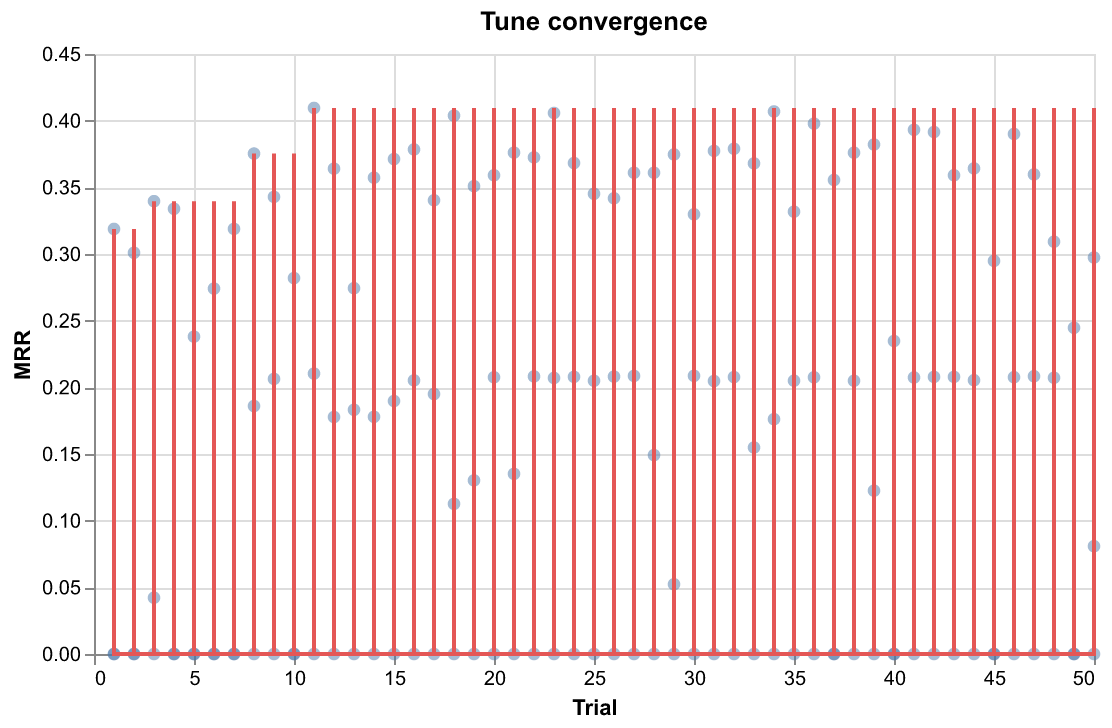
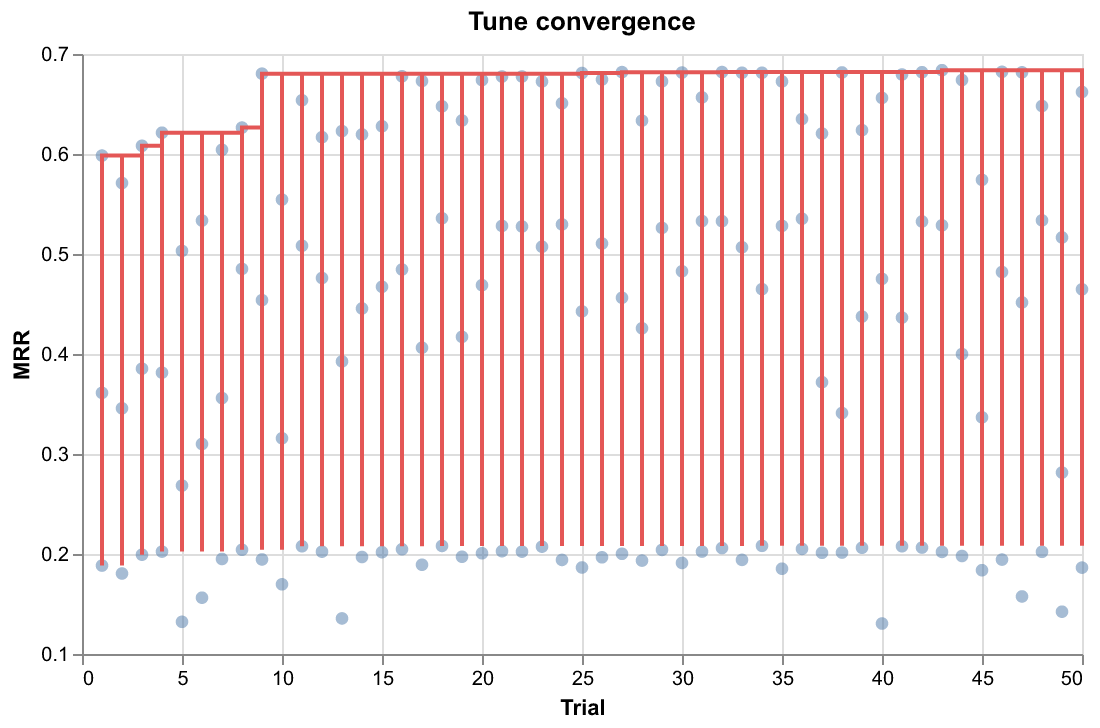
Refresh tuning results

Changed region(s): [[0.0, 0.0604, 0.9891, 0.9973], [0.4327, 0.0, 0.6491, 0.0604]]

diff --git a/packages/rbtr-eval/data/RERANKER_TUNING.md b/packages/rbtr-eval/data/RERANKER_TUNING.md
@@ -15,21 +15,21 @@
 
 | pool | blend | n_queries | MRR    | NDCG@10 | hit@1 % | hit@3 % | hit@10 % | miss % | p50 ms | p95 ms |
 | ---- | ----- | --------- | ------ | ------- | ------- | ------- | -------- | ------ | ------ | ------ |
-| 80   | 0.25  | 661       | 0.6022 | 0.6475  | 50.7    | 67.2    | 79.0     | 21.0   | 7206   | 11965  |
-| 50   | 0.25  | 661       | 0.6007 | 0.6453  | 50.7    | 66.7    | 78.5     | 21.5   | 4813   | 8154   |
-| 80   | 0.5   | 661       | 0.5982 | 0.6445  | 50.2    | 66.9    | 79.0     | 21.0   | 7206   | 11965  |
-| 50   | 0.5   | 661       | 0.5943 | 0.6403  | 50.1    | 66.1    | 78.5     | 21.5   | 4813   | 8154   |
-| 80   | 0.75  | 661       | 0.5879 | 0.6365  | 49.0    | 66.4    | 79.0     | 21.0   | 7206   | 11965  |
-| 50   | 0.75  | 661       | 0.5796 | 0.6291  | 48.1    | 65.1    | 78.5     | 21.5   | 4813   | 8154   |
-| 80   | 0.0   | 661       | 0.5748 | 0.6265  | 46.9    | 66.0    | 79.0     | 21.0   | 7206   | 11965  |
-| 20   | 0.25  | 661       | 0.5741 | 0.6132  | 49.0    | 63.2    | 73.5     | 26.5   | 2135   | 3860   |
-| 50   | 0.0   | 661       | 0.5734 | 0.6244  | 47.0    | 65.5    | 78.5     | 21.5   | 4813   | 8154   |
-| 20   | 0.5   | 661       | 0.5733 | 0.6128  | 48.9    | 63.4    | 73.5     | 26.5   | 2135   | 3860   |
-| 20   | 0.75  | 661       | 0.5683 | 0.609   | 48.1    | 63.4    | 73.5     | 26.5   | 2135   | 3860   |
-| 20   | 0.0   | 661       | 0.5491 | 0.5939  | 45.7    | 62.8    | 73.5     | 26.5   | 2135   | 3860   |
-| 80   | 1.0   | 661       | 0.5471 | 0.6047  | 44.3    | 61.3    | 79.0     | 21.0   | 7206   | 11965  |
-| 50   | 1.0   | 661       | 0.539  | 0.5971  | 43.9    | 59.3    | 78.5     | 21.5   | 4813   | 8154   |
-| 20   | 1.0   | 661       | 0.5234 | 0.5733  | 43.7    | 57.2    | 73.5     | 26.5   | 2135   | 3860   |
+| 80   | 0.25  | 661       | 0.6022 | 0.6475  | 50.7    | 67.2    | 79.0     | 21.0   | 7098   | 11848  |
+| 50   | 0.25  | 661       | 0.6007 | 0.6453  | 50.7    | 66.7    | 78.5     | 21.5   | 4812   | 8156   |
+| 80   | 0.5   | 661       | 0.5982 | 0.6445  | 50.2    | 66.9    | 79.0     | 21.0   | 7098   | 11848  |
+| 50   | 0.5   | 661       | 0.5943 | 0.6403  | 50.1    | 66.1    | 78.5     | 21.5   | 4812   | 8156   |
+| 80   | 0.75  | 661       | 0.5879 | 0.6365  | 49.0    | 66.4    | 79.0     | 21.0   | 7098   | 11848  |
+| 50   | 0.75  | 661       | 0.5796 | 0.6291  | 48.1    | 65.1    | 78.5     | 21.5   | 4812   | 8156   |
+| 80   | 0.0   | 661       | 0.5748 | 0.6265  | 46.9    | 66.0    | 79.0     | 21.0   | 7098   | 11848  |
+| 20   | 0.25  | 661       | 0.5741 | 0.6132  | 49.0    | 63.2    | 73.5     | 26.5   | 2132   | 3886   |
+| 50   | 0.0   | 661       | 0.5734 | 0.6244  | 47.0    | 65.5    | 78.5     | 21.5   | 4812   | 8156   |
+| 20   | 0.5   | 661       | 0.5733 | 0.6128  | 48.9    | 63.4    | 73.5     | 26.5   | 2132   | 3886   |
+| 20   | 0.75  | 661       | 0.5683 | 0.609   | 48.1    | 63.4    | 73.5     | 26.5   | 2132   | 3886   |
+| 20   | 0.0   | 661       | 0.5491 | 0.5939  | 45.7    | 62.8    | 73.5     | 26.5   | 2132   | 3886   |
+| 80   | 1.0   | 661       | 0.5471 | 0.6047  | 44.3    | 61.3    | 79.0     | 21.0   | 7098   | 11848  |
+| 50   | 1.0   | 661       | 0.539  | 0.5971  | 43.9    | 59.3    | 78.5     | 21.5   | 4812   | 8156   |
+| 20   | 1.0   | 661       | 0.5234 | 0.5733  | 43.7    | 57.2    | 73.5     | 26.5   | 2132   | 3886   |
 
 ## Per-provenance breakdown
 
@@ -98,77 +98,86 @@
 
 ## Per-kind breakdown
 
-| kind       | pool | blend | n_queries | MRR    | NDCG@10 | hit@1 % | hit@3 % |
-| ---------- | ---- | ----- | --------- | ------ | ------- | ------- | ------- |
-| code       | 80   | 0.5   | 103       | 0.866  | 0.8854  | 80.6    | 93.2    |
-| code       | 50   | 0.5   | 103       | 0.8612 | 0.8793  | 80.6    | 92.2    |
-| code       | 80   | 0.25  | 103       | 0.8579 | 0.8795  | 78.6    | 93.2    |
-| code       | 80   | 0.75  | 103       | 0.8547 | 0.877   | 78.6    | 93.2    |
-| code       | 50   | 0.25  | 103       | 0.8531 | 0.8734  | 78.6    | 92.2    |
-| code       | 20   | 0.5   | 103       | 0.8523 | 0.8702  | 79.6    | 90.3    |
-| code       | 50   | 0.75  | 103       | 0.8515 | 0.8721  | 78.6    | 92.2    |
-| code       | 20   | 0.25  | 103       | 0.8498 | 0.8685  | 78.6    | 91.3    |
-| code       | 20   | 0.75  | 103       | 0.8466 | 0.8659  | 78.6    | 90.3    |
-| code       | 80   | 1.0   | 103       | 0.8337 | 0.8609  | 75.7    | 91.3    |
-| code       | 50   | 1.0   | 103       | 0.8163 | 0.8452  | 73.8    | 89.3    |
-| code       | 20   | 1.0   | 103       | 0.7917 | 0.8235  | 71.8    | 84.5    |
-| code       | 20   | 0.0   | 103       | 0.7265 | 0.7757  | 59.2    | 87.4    |
-| code       | 80   | 0.0   | 103       | 0.7056 | 0.7644  | 55.3    | 86.4    |
-| code       | 50   | 0.0   | 103       | 0.7008 | 0.7582  | 55.3    | 85.4    |
-| concept    | 80   | 0.0   | 202       | 0.5366 | 0.5781  | 44.6    | 60.9    |
-| concept    | 50   | 0.0   | 202       | 0.5253 | 0.5636  | 44.1    | 59.4    |
-| concept    | 80   | 0.25  | 202       | 0.4676 | 0.5254  | 35.1    | 55.4    |
-| concept    | 50   | 0.25  | 202       | 0.4575 | 0.5121  | 34.7    | 54.0    |
-| concept    | 20   | 0.0   | 202       | 0.442  | 0.4674  | 38.1    | 50.5    |
-| concept    | 80   | 0.5   | 202       | 0.4363 | 0.501   | 31.7    | 50.5    |
-| concept    | 50   | 0.5   | 202       | 0.4254 | 0.487   | 31.2    | 49.0    |
-| concept    | 20   | 0.25  | 202       | 0.3979 | 0.4342  | 31.2    | 46.5    |
-| concept    | 80   | 0.75  | 202       | 0.3854 | 0.4617  | 25.2    | 47.5    |
-| concept    | 20   | 0.5   | 202       | 0.373  | 0.415   | 28.2    | 43.6    |
-| concept    | 50   | 0.75  | 202       | 0.3656 | 0.4407  | 23.8    | 43.6    |
-| concept    | 20   | 0.75  | 202       | 0.3285 | 0.3806  | 22.8    | 39.1    |
-| concept    | 80   | 1.0   | 202       | 0.3189 | 0.4092  | 18.8    | 38.1    |
-| concept    | 50   | 1.0   | 202       | 0.2972 | 0.3864  | 17.3    | 33.7    |
-| concept    | 20   | 1.0   | 202       | 0.2641 | 0.3289  | 17.3    | 29.2    |
-| identifier | 80   | 0.75  | 356       | 0.6257 | 0.6661  | 53.9    | 69.4    |
-| identifier | 20   | 0.75  | 356       | 0.6239 | 0.6643  | 53.7    | 69.4    |
-| identifier | 50   | 0.75  | 356       | 0.6224 | 0.6656  | 53.1    | 69.4    |
-| identifier | 50   | 0.5   | 356       | 0.6129 | 0.6582  | 52.0    | 68.3    |
-| identifier | 80   | 0.5   | 356       | 0.6126 | 0.6562  | 52.0    | 68.5    |
-| identifier | 50   | 0.25  | 356       | 0.6089 | 0.655   | 51.7    | 66.6    |
-| identifier | 20   | 0.5   | 356       | 0.6063 | 0.6505  | 51.7    | 66.9    |
-| identifier | 80   | 0.25  | 356       | 0.6047 | 0.6497  | 51.4    | 66.3    |
-| identifier | 50   | 1.0   | 356       | 0.596  | 0.6449  | 50.3    | 65.2    |
-| identifier | 20   | 0.25  | 356       | 0.5942 | 0.6408  | 50.6    | 64.6    |
-| identifier | 80   | 1.0   | 356       | 0.5936 | 0.6415  | 49.7    | 65.7    |
-| identifier | 20   | 1.0   | 356       | 0.593  | 0.6397  | 50.6    | 65.2    |
-| identifier | 50   | 0.0   | 356       | 0.5639 | 0.6201  | 46.3    | 63.2    |
-| identifier | 80   | 0.0   | 356       | 0.5585 | 0.614   | 45.8    | 62.9    |
-| identifier | 20   | 0.0   | 356       | 0.5585 | 0.613   | 46.1    | 62.6    |
+| kind       | pool | blend | n_queries | MRR    | NDCG@10 | hit@1 % | hit@3 % | p50 ms |
+| ---------- | ---- | ----- | --------- | ------ | ------- | ------- | ------- | ------ |
+| code       | 80   | 0.5   | 103       | 0.866  | 0.8854  | 80.6    | 93.2    | 7964   |
+| code       | 50   | 0.5   | 103       | 0.8612 | 0.8793  | 80.6    | 92.2    | 5328   |
+| code       | 80   | 0.25  | 103       | 0.8579 | 0.8795  | 78.6    | 93.2    | 7964   |
+| code       | 80   | 0.75  | 103       | 0.8547 | 0.877   | 78.6    | 93.2    | 7964   |
+| code       | 50   | 0.25  | 103       | 0.8531 | 0.8734  | 78.6    | 92.2    | 5328   |
+| code       | 20   | 0.5   | 103       | 0.8523 | 0.8702  | 79.6    | 90.3    | 2349   |
+| code       | 50   | 0.75  | 103       | 0.8515 | 0.8721  | 78.6    | 92.2    | 5328   |
+| code       | 20   | 0.25  | 103       | 0.8498 | 0.8685  | 78.6    | 91.3    | 2349   |
+| code       | 20   | 0.75  | 103       | 0.8466 | 0.8659  | 78.6    | 90.3    | 2349   |
+| code       | 80   | 1.0   | 103       | 0.8337 | 0.8609  | 75.7    | 91.3    | 7964   |
+| code       | 50   | 1.0   | 103       | 0.8163 | 0.8452  | 73.8    | 89.3    | 5328   |
+| code       | 20   | 1.0   | 103       | 0.7917 | 0.8235  | 71.8    | 84.5    | 2349   |
+| code       | 20   | 0.0   | 103       | 0.7265 | 0.7757  | 59.2    | 87.4    | 2349   |
+| code       | 80   | 0.0   | 103       | 0.7056 | 0.7644  | 55.3    | 86.4    | 7964   |
+| code       | 50   | 0.0   | 103       | 0.7008 | 0.7582  | 55.3    | 85.4    | 5328   |
+| concept    | 80   | 0.0   | 202       | 0.5366 | 0.5781  | 44.6    | 60.9    | 7309   |
+| concept    | 50   | 0.0   | 202       | 0.5253 | 0.5636  | 44.1    | 59.4    | 4945   |
+| concept    | 80   | 0.25  | 202       | 0.4676 | 0.5254  | 35.1    | 55.4    | 7309   |
+| concept    | 50   | 0.25  | 202       | 0.4575 | 0.5121  | 34.7    | 54.0    | 4945   |
+| concept    | 20   | 0.0   | 202       | 0.442  | 0.4674  | 38.1    | 50.5    | 2312   |
+| concept    | 80   | 0.5   | 202       | 0.4363 | 0.501   | 31.7    | 50.5    | 7309   |
+| concept    | 50   | 0.5   | 202       | 0.4254 | 0.487   | 31.2    | 49.0    | 4945   |
+| concept    | 20   | 0.25  | 202       | 0.3979 | 0.4342  | 31.2    | 46.5    | 2312   |
+| concept    | 80   | 0.75  | 202       | 0.3854 | 0.4617  | 25.2    | 47.5    | 7309   |
+| concept    | 20   | 0.5   | 202       | 0.373  | 0.415   | 28.2    | 43.6    | 2312   |
+| concept    | 50   | 0.75  | 202       | 0.3656 | 0.4407  | 23.8    | 43.6    | 4945   |
+| concept    | 20   | 0.75  | 202       | 0.3285 | 0.3806  | 22.8    | 39.1    | 2312   |
+| concept    | 80   | 1.0   | 202       | 0.3189 | 0.4092  | 18.8    | 38.1    | 7309   |
+| concept    | 50   | 1.0   | 202       | 0.2972 | 0.3864  | 17.3    | 33.7    | 4945   |
+| concept    | 20   | 1.0   | 202       | 0.2641 | 0.3289  | 17.3    | 29.2    | 2312   |
+| identifier | 80   | 0.75  | 356       | 0.6257 | 0.6661  | 53.9    | 69.4    | 6790   |
+| identifier | 20   | 0.75  | 356       | 0.6239 | 0.6643  | 53.7    | 69.4    | 2035   |
+| identifier | 50   | 0.75  | 356       | 0.6224 | 0.6656  | 53.1    | 69.4    | 4569   |
+| identifier | 50   | 0.5   | 356       | 0.6129 | 0.6582  | 52.0    | 68.3    | 4569   |
+| identifier | 80   | 0.5   | 356       | 0.6126 | 0.6562  | 52.0    | 68.5    | 6790   |
+| identifier | 50   | 0.25  | 356       | 0.6089 | 0.655   | 51.7    | 66.6    | 4569   |
+| identifier | 20   | 0.5   | 356       | 0.6063 | 0.6505  | 51.7    | 66.9    | 2035   |
+| identifier | 80   | 0.25  | 356       | 0.6047 | 0.6497  | 51.4    | 66.3    | 6790   |
+| identifier | 50   | 1.0   | 356       | 0.596  | 0.6449  | 50.3    | 65.2    | 4569   |
+| identifier | 20   | 0.25  | 356       | 0.5942 | 0.6408  | 50.6    | 64.6    | 2035   |
+| identifier | 80   | 1.0   | 356       | 0.5936 | 0.6415  | 49.7    | 65.7    | 6790   |
+| identifier | 20   | 1.0   | 356       | 0.593  | 0.6397  | 50.6    | 65.2    | 2035   |
+| identifier | 50   | 0.0   | 356       | 0.5639 | 0.6201  | 46.3    | 63.2    | 4569   |
+| identifier | 80   | 0.0   | 356       | 0.5585 | 0.614   | 45.8    | 62.9    | 6790   |
+| identifier | 20   | 0.0   | 356       | 0.5585 | 0.613   | 46.1    | 62.6    | 2035   |
 
-## Per-kind recommendation
+## Latency-aware selection
 
-| kind       | pool | blend | n_queries | MRR    | NDCG@10 |
-| ---------- | ---- | ----- | --------- | ------ | ------- |
-| code       | 80   | 0.5   | 103       | 0.866  | 0.8854  |
-| concept    | 80   | 0.0   | 202       | 0.5366 | 0.5781  |
-| identifier | 80   | 0.75  | 356       | 0.6257 | 0.6661  |
+MRR rises with pool size, but so does latency (p50 is a function of
+pool only). For each kind and overall, the cheapest (smallest-pool)
+config whose MRR is within a tolerance of that scope's best, and the
+MRR given up for it. Choose a pool per your latency budget; the config
+is applied manually.
 
-```toml
-[reranker_settings.code]
-pool = 80
-blend_weight = 0.5
+| kind       | tol % | pool | blend | MRR    | p50 ms | MRR vs best |
+| ---------- | ----- | ---- | ----- | ------ | ------ | ----------- |
+| code       | 0.5   | 80   | 0.5   | 0.866  | 7964   | 0.0         |
+| code       | 1.0   | 50   | 0.5   | 0.8612 | 5328   | 0.0049      |
+| code       | 2.0   | 20   | 0.5   | 0.8523 | 2349   | 0.0138      |
+| code       | 3.0   | 20   | 0.5   | 0.8523 | 2349   | 0.0138      |
+| code       | 5.0   | 20   | 0.5   | 0.8523 | 2349   | 0.0138      |
+| concept    | 0.5   | 80   | 0.0   | 0.5366 | 7309   | 0.0         |
+| concept    | 1.0   | 80   | 0.0   | 0.5366 | 7309   | 0.0         |
+| concept    | 2.0   | 80   | 0.0   | 0.5366 | 7309   | 0.0         |
+| concept    | 3.0   | 50   | 0.0   | 0.5253 | 4945   | 0.0113      |
+| concept    | 5.0   | 50   | 0.0   | 0.5253 | 4945   | 0.0113      |
+| identifier | 0.5   | 20   | 0.75  | 0.6239 | 2035   | 0.0018      |
+| identifier | 1.0   | 20   | 0.75  | 0.6239 | 2035   | 0.0018      |
+| identifier | 2.0   | 20   | 0.75  | 0.6239 | 2035   | 0.0018      |
+| identifier | 3.0   | 20   | 0.75  | 0.6239 | 2035   | 0.0018      |
+| identifier | 5.0   | 20   | 0.75  | 0.6239 | 2035   | 0.0018      |
+| all        | 0.5   | 50   | 0.25  | 0.6007 | 4812   | 0.0015      |
+| all        | 1.0   | 50   | 0.25  | 0.6007 | 4812   | 0.0015      |
+| all        | 2.0   | 50   | 0.25  | 0.6007 | 4812   | 0.0015      |
+| all        | 3.0   | 50   | 0.25  | 0.6007 | 4812   | 0.0015      |
+| all        | 5.0   | 20   | 0.25  | 0.5741 | 2132   | 0.0282      |
 
-[reranker_settings.concept]
-pool = 80
-blend_weight = 0.0
-
-[reranker_settings.identifier]
-pool = 80
-blend_weight = 0.75
-```
-
-## Per-slug breakdown (best config)
+## Per-slug breakdown (highest-MRR config: pool 80, blend 0.25)
 
 | slug               | n_queries | MRR    | NDCG@10 | hit@1 % | hit@3 % |
 | ------------------ | --------- | ------ | ------- | ------- | ------- |
@@ -178,7 +187,7 @@ blend_weight = 0.75
 | django__django     | 151       | 0.4849 | 0.5154  | 41.7    | 54.3    |
 | rbtr__rbtr         | 90        | 0.6322 | 0.6795  | 51.1    | 73.3    |
 
-## Per-language breakdown (best config)
+## Per-language breakdown (highest-MRR config: pool 80, blend 0.25)
 
 | language   | n_queries | MRR    | NDCG@10 | hit@1 % | hit@3 % |
 | ---------- | --------- | ------ | ------- | ------- | ------- |
@@ -197,21 +206,13 @@ blend_weight = 0.75
 | typescript | 60        | 0.7639 | 0.8017  | 66.7    | 83.3    |
 | yaml       | 36        | 0.4716 | 0.5253  | 36.1    | 52.8    |
 
-## Recommended config (flat)
-
-```toml
-[reranker]
-pool = 80
-blend_weight = 0.25
-```
-
 ## Run metadata
 
 | field             | value   |
 | ----------------- | ------- |
 | queries evaluated | 661     |
 | configs evaluated | 15      |
-| elapsed           | 10100 s |
+| elapsed           | 10033 s |
 
 ## Sample distribution
 

diff --git a/packages/rbtr-eval/data/TUNING.md b/packages/rbtr-eval/data/TUNING.md
@@ -12,15 +12,15 @@ The search score fuses three channels:
 
 | kind       | alpha    | beta     | gamma    |
 | ---------- | -------- | -------- | -------- |
-| concept    | 0.020334 | 0.053841 | 0.925825 |
-| identifier | 0.020334 | 0.033426 | 0.946239 |
-| code       | 0.208055 | 0.742272 | 0.049673 |
+| concept    | 0.137519 | 0.27806  | 0.584421 |
+| identifier | 0.007601 | 0.092751 | 0.899648 |
+| code       | 0.059404 | 0.846227 | 0.09437  |
 
 ## Result
 
-| metric | current              | recommended         | delta                                |
-| ------ | -------------------- | ------------------- | ------------------------------------ |
-| MRR    | 3.999999938267203e-9 | 0.21031567797214318 | 0.21031567397214324 ([phone redacted].4%) |
+| metric | current             | recommended         | delta                        |
+| ------ | ------------------- | ------------------- | ---------------------------- |
+| MRR    | 0.19610506250229112 | 0.20816103962755234 | 0.012055977125261214 (+6.1%) |
 
 ## Impact by dimension
 
@@ -30,30 +30,30 @@ kind.
 
 | slug               | language   | provenance | baseline_mrr | best_mrr | delta   | baseline_ndcg_at_10 | best_ndcg_at_10 | delta_ndcg_at_10 |
 | ------------------ | ---------- | ---------- | ------------ | -------- | ------- | ------------------- | --------------- | ---------------- |
-| __all__            |            | __all__    | 0.443817     | 0.427624 | -0.0162 | 0.471481            | 0.453808        | -0.0177          |
-| __all__            | __all__    | __all__    | 0.463313     | 0.450549 | -0.0128 | 0.499615            | 0.490144        | -0.0095          |
-| __all__            | __all__    | body       | 0.496739     | 0.470997 | -0.0257 | 0.541199            | 0.521351        | -0.0198          |
-| __all__            | __all__    | concept    | 0.177647     | 0.171985 | -0.0057 | 0.210482            | 0.203077        | -0.0074          |
-| __all__            | __all__    | docstring  | 0.695852     | 0.6804   | -0.0155 | 0.727141            | 0.719518        | -0.0076          |
-| __all__            | __all__    | name       | 0.569728     | 0.570133 | 0.0004  | 0.600786            | 0.603167        | 0.0024           |
-| __all__            | bash       | __all__    | 0.615487     | 0.629143 | 0.0137  | 0.668275            | 0.688075        | 0.0198           |
-| __all__            | css        | __all__    | 0.697159     | 0.666717 | -0.0304 | 0.730645            | 0.710267        | -0.0204          |
-| __all__            | html       | __all__    | 0.3234375    | 0.262326 | -0.0611 | 0.343175            | 0.29723         | -0.0459          |
-| __all__            | javascript | __all__    | 0.570713     | 0.544099 | -0.0266 | 0.606333            | 0.579399        | -0.0269          |
-| __all__            | json       | __all__    | 0.180471     | 0.164526 | -0.0159 | 0.210442            | 0.193627        | -0.0168          |
-| __all__            | markdown   | __all__    | 0.205274     | 0.176338 | -0.0289 | 0.225527            | 0.201417        | -0.0241          |
-| __all__            | python     | __all__    | 0.598675     | 0.606921 | 0.0082  | 0.642819            | 0.648053        | 0.0052           |
-| __all__            | rst        | __all__    | 0.004608     | 0.004608 | 0.0     | 0.010753            | 0.010753        | 0.0              |
-| __all__            | rust       | __all__    | 0.581184     | 0.574102 | -0.0071 | 0.640342            | 0.635493        | -0.0048          |
-| __all__            | sql        | __all__    | 0.62284      | 0.625926 | 0.0031  | 0.68853             | 0.695887        | 0.0074           |
-| __all__            | toml       | __all__    | 0.167907     | 0.104621 | -0.0633 | 0.191943            | 0.157037        | -0.0349          |
-| __all__            | typescript | __all__    | 0.582346     | 0.58305  | 0.0007  | 0.625416            | 0.622674        | -0.0027          |
-| __all__            | yaml       | __all__    | 0.14569      | 0.143166 | -0.0025 | 0.173153            | 0.183485        | 0.0103           |
-| anthropics__skills | __all__    | __all__    | 0.579295     | 0.547484 | -0.0318 | 0.629008            | 0.598532        | -0.0305          |
-| astral-sh__uv      | __all__    | __all__    | 0.453504     | 0.447944 | -0.0056 | 0.484416            | 0.486699        | 0.0023           |
-| badlogic__pi-mono  | __all__    | __all__    | 0.484073     | 0.478738 | -0.0053 | 0.521001            | 0.5178          | -0.0032          |
-| django__django     | __all__    | __all__    | 0.347153     | 0.334263 | -0.0129 | 0.36912             | 0.36045         | -0.0087          |
-| rbtr__rbtr         | __all__    | __all__    | 0.47081      | 0.464956 | -0.0059 | 0.519481            | 0.511588        | -0.0079          |
+| __all__            |            | __all__    | 0.443817     | 0.421326 | -0.0225 | 0.471481            | 0.448494        | -0.023           |
+| __all__            | __all__    | __all__    | 0.463241     | 0.469329 | 0.0061  | 0.499421            | 0.504203        | 0.0048           |
+| __all__            | __all__    | body       | 0.496538     | 0.511273 | 0.0147  | 0.540654            | 0.553461        | 0.0128           |
+| __all__            | __all__    | concept    | 0.177647     | 0.172075 | -0.0056 | 0.210482            | 0.203629        | -0.0069          |
+| __all__            | __all__    | docstring  | 0.695852     | 0.692136 | -0.0037 | 0.727141            | 0.722689        | -0.0045          |
+| __all__            | __all__    | name       | 0.569728     | 0.581262 | 0.0115  | 0.600786            | 0.611546        | 0.0108           |
+| __all__            | bash       | __all__    | 0.615487     | 0.646278 | 0.0308  | 0.668275            | 0.697151        | 0.0289           |
+| __all__            | css        | __all__    | 0.697159     | 0.682232 | -0.0149 | 0.730645            | 0.718068        | -0.0126          |
+| __all__            | html       | __all__    | 0.3234375    | 0.34375  | 0.0203  | 0.343175            | 0.358973        | 0.0158           |
+| __all__            | javascript | __all__    | 0.570713     | 0.569053 | -0.0017 | 0.606333            | 0.603462        | -0.0029          |
+| __all__            | json       | __all__    | 0.180471     | 0.178397 | -0.0021 | 0.210442            | 0.207704        | -0.0027          |
+| __all__            | markdown   | __all__    | 0.205274     | 0.239166 | 0.0339  | 0.225527            | 0.26164         | 0.0361           |
+| __all__            | python     | __all__    | 0.598179     | 0.615969 | 0.0178  | 0.641475            | 0.651835        | 0.0104           |
+| __all__            | rst        | __all__    | 0.004608     | 0.009985 | 0.0054  | 0.010753            | 0.022243        | 0.0115           |
+| __all__            | rust       | __all__    | 0.581184     | 0.569991 | -0.0112 | 0.640342            | 0.627213        | -0.0131          |
+| __all__            | sql        | __all__    | 0.62284      | 0.651111 | 0.0283  | 0.68853             | 0.709852        | 0.0213           |
+| __all__            | toml       | __all__    | 0.167907     | 0.138393 | -0.0295 | 0.191943            | 0.156           | -0.0359          |
+| __all__            | typescript | __all__    | 0.582346     | 0.57432  | -0.008  | 0.625416            | 0.617708        | -0.0077          |
+| __all__            | yaml       | __all__    | 0.14569      | 0.169599 | 0.0239  | 0.173153            | 0.1981          | 0.0249           |
+| anthropics__skills | __all__    | __all__    | 0.579295     | 0.578914 | -0.0004 | 0.629008            | 0.625995        | -0.003           |
+| astral-sh__uv      | __all__    | __all__    | 0.453504     | 0.459425 | 0.0059  | 0.484416            | 0.489217        | 0.0048           |
+| badlogic__pi-mono  | __all__    | __all__    | 0.484073     | 0.486139 | 0.0021  | 0.521001            | 0.52283         | 0.0018           |
+| django__django     | __all__    | __all__    | 0.346841     | 0.352476 | 0.0056  | 0.368274            | 0.373715        | 0.0054           |
+| rbtr__rbtr         | __all__    | __all__    | 0.47081      | 0.493006 | 0.0222  | 0.519481            | 0.538844        | 0.0194           |
 
 ## Convergence
 
@@ -67,26 +67,26 @@ kind.
 
 ```toml
 [search_weights.concept]
-alpha = 0.02033447162493074
-beta = 0.053840606361226506
-gamma = 0.9258249220138428
+alpha = 0.13751900829806735
+beta = 0.27805965902468166
+gamma = 0.584421332677251
 
 [search_weights.identifier]
-alpha = 0.02033447162493074
-beta = 0.03342632797195456
-gamma = 0.9462392004031146
+alpha = 0.0076011360583828486
+beta = 0.09275092124464959
+gamma = 0.8996479426969676
 
 [search_weights.code]
-alpha = 0.20805514624356541
-beta = 0.7422719142866617
-gamma = 0.04967293946977288
+alpha = 0.059403827118493804
+beta = 0.8462265911073973
+gamma = 0.09436958177410891
 ```
 
 ## Run metadata
 
 - Optuna trials: 50
 - queries evaluated: 1554
-- elapsed: 8587 s
+- elapsed: 8606 s
 
 ## Sample distribution
 